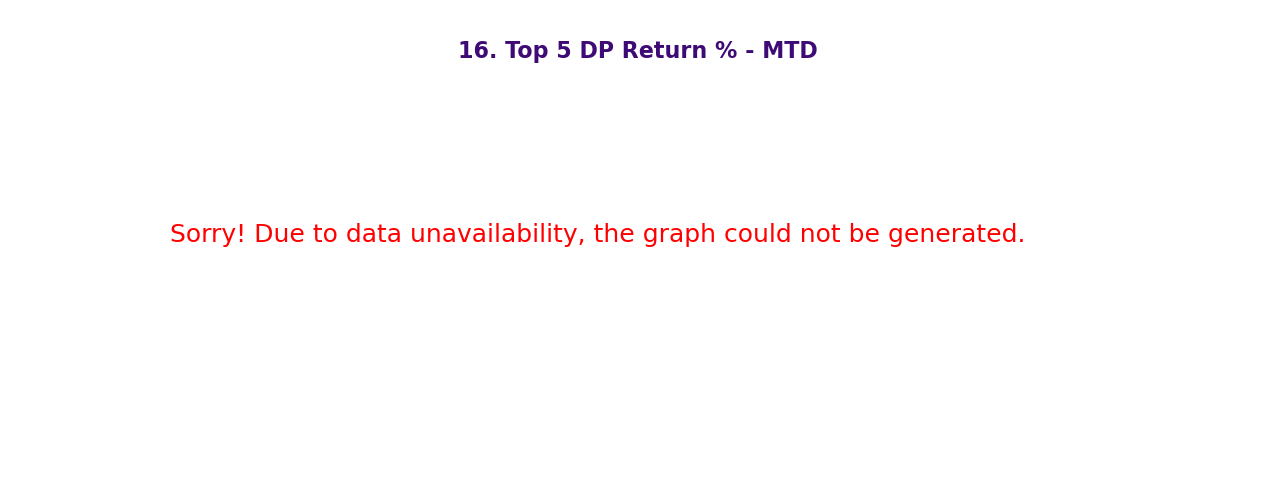
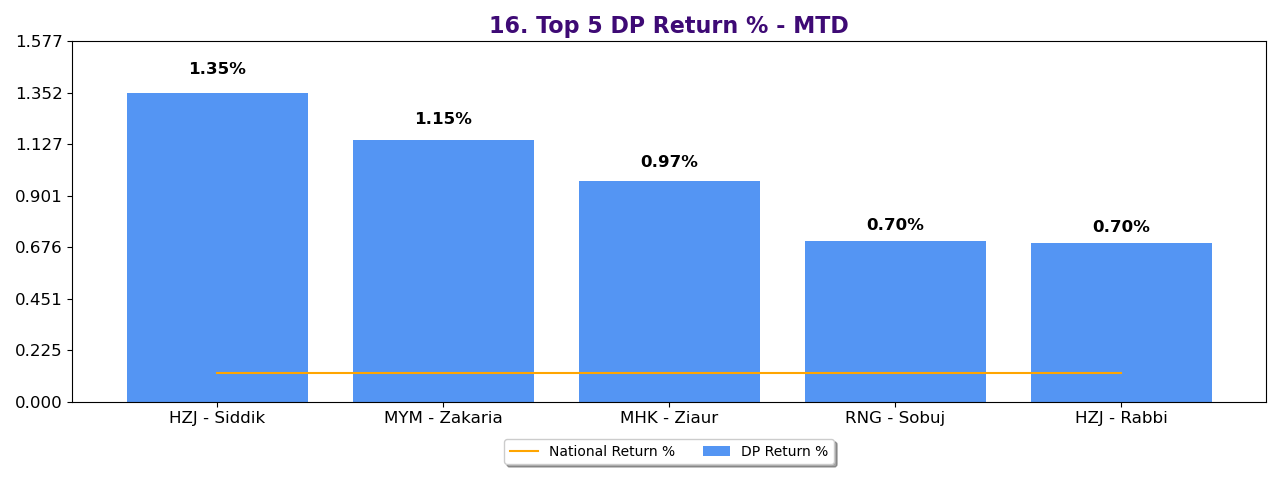
Merge branch 'master' of D:\Python Code\NDM_wise_Outstanding with conflicts.

diff --git a/Functions/top5_delivery_person.py b/Functions/top5_delivery_person.py
@@ -3,23 +3,23 @@ import Functions.all_library as lib
 
 def top5_delivery_persons_return():
     try:
-        delivery_man_wise_return_df = lib.pd.read_sql_query("""select top 5 TWO.ShortName as DPNAME,left(Two.AUDTORG,
+        delivery_man_wise_return_df = lib.pd.read_sql_query("""select Top 5 TWO.ShortName as DPNAME,left(Two.AUDTORG,
         3) as BranchName, Sales.ReturnAmount from
-                    (select  DPID, AUDTORG,ISNULL(sum(case when TRANSTYPE<>1 then INVNETH *-1 end), 0) /ISNULL(sum(case when TRANSTYPE=1 then INVNETH end), 0)*100 as ReturnAmount from OESalesSummery
-                    where
-                    left(TRANSDATE,6)=convert(varchar(6),getdate(),112)
-                    group by DPID,AUDTORG) as Sales
-                    left join
-                    (select   distinct AUDTORG,ShortName,DPID from DP_ShortName) as TWO
-                    on Sales.DPID = TWO.DPID
-                    and Sales.AUDTORG=TWO.AUDTORG
-                    where TWO.ShortName is not null
-                    and Sales.ReturnAmount>0
-                    order by ReturnAmount DESC  """, fn.conn)
+        (select  DPID, AUDTORG,ISNULL(sum(case when TRANSTYPE<>1 then INVNETH *-1 end), 0) as ReturnAmount from OESalesSummery
+        where
+        left(TRANSDATE,6)=convert(varchar(6),getdate(),112)
+        group by DPID,AUDTORG) as Sales
+        left join
+        (select   distinct AUDTORG,ShortName,DPID from DP_ShortName) as TWO
+        on Sales.DPID = TWO.DPID
+        and Sales.AUDTORG=TWO.AUDTORG
+        where TWO.ShortName is not null
+        and Sales.ReturnAmount>0
+        order by ReturnAmount DESC""", fn.conn)
 
         average_delivery_man_wise_return_df = lib.pd.read_sql_query("""
-                 select top 5 Sales.ReturnAmount from
-                (select DPID, AUDTORG,ISNULL(sum(case when TRANSTYPE<>1 then INVNETH *-1 end), 0) /ISNULL(sum(case when TRANSTYPE=1 then INVNETH end), 0)*100 as ReturnAmount from OESalesSummery
+                 select Sales.ReturnAmount from
+                (select DPID, AUDTORG,ISNULL(sum(case when TRANSTYPE<>1 then INVNETH *-1 end), 0) as ReturnAmount from OESalesSummery
                 where
                 left(TRANSDATE,6)=convert(varchar(6),getdate(),112)
                 group by DPID,AUDTORG) as Sales
@@ -36,31 +36,40 @@ def top5_delivery_persons_return():
         Total_amount_of_return = sum(average_delivery_information)
         Total_no_of_delivery_person = len(average_delivery_information)
         average_delivery_amount = Total_amount_of_return / Total_no_of_delivery_person
+        final_average_dp_percentage = (average_delivery_amount/Total_amount_of_return)*100
         average_amount_list = []
 
         for i in range(0, 5):
-            average_amount_list.append(average_delivery_amount)
+            average_amount_list.append(final_average_dp_percentage)
 
         DPNAME = delivery_man_wise_return_df['DPNAME']
         y_pos = lib.np.arange(len(DPNAME))
-        ReturnAmount = abs(delivery_man_wise_return_df['ReturnAmount'])
-        ReturnAmount = ReturnAmount.values.tolist()
+        ReturnAmounts = abs(delivery_man_wise_return_df['ReturnAmount'])
+        Five_dp_ReturnAmount = ReturnAmounts.values.tolist()
+
+
+        plotting_values=[(Five_dp_ReturnAmount[0]/Total_amount_of_return)*100,
+                         (Five_dp_ReturnAmount[1]/Total_amount_of_return)*100,
+                         (Five_dp_ReturnAmount[2]/Total_amount_of_return)*100,
+                         (Five_dp_ReturnAmount[3]/Total_amount_of_return)*100,
+                         (Five_dp_ReturnAmount[4]/Total_amount_of_return)*100]
+
         Branch_name = delivery_man_wise_return_df['BranchName'].values.tolist()
 
         branch_final_name = []
         for val in Branch_name:
             branch_final_name.append(val + " - ")
 
-        max_amount = max(ReturnAmount)
+        max_amount = max(plotting_values)
         color = '#418af2'
         fig, ax = lib.plt.subplots(figsize=(12.81, 4.8))
-        rects1 = lib.plt.bar(y_pos, ReturnAmount, align='center', alpha=0.9, color=color)
+        rects1 = lib.plt.bar(y_pos, plotting_values, align='center', alpha=0.9, color=color)
         lib.plt.plot(y_pos, average_amount_list, color='orange')
 
         def autolabel(bars):
             loop = 0
             for bar in bars:
-                show = ReturnAmount[loop]
+                show = plotting_values[loop]
                 height = bar.get_height()
                 ax.text(bar.get_x() + bar.get_width() / 2, (1.05 * height),
                         '%.2f' % (show) + '%', ha='center', va='bottom', fontsize=12, rotation=0, fontweight='bold')
